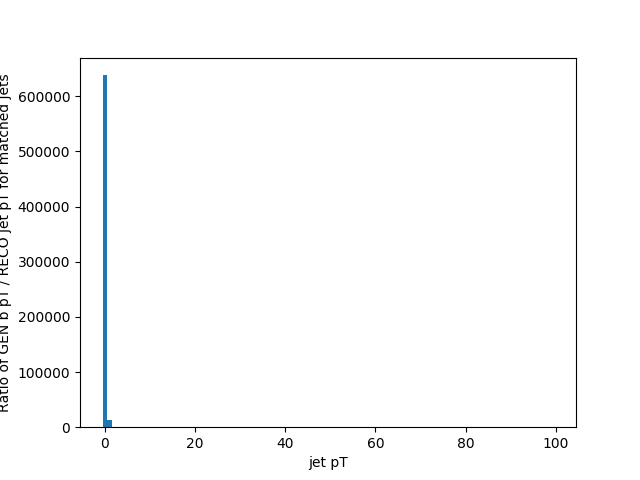
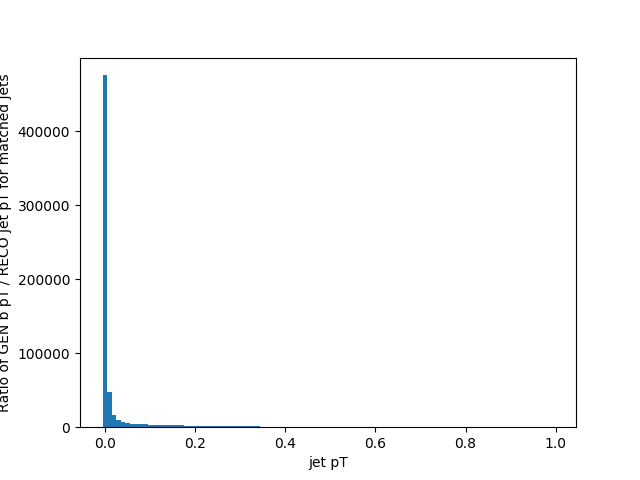
Corrected some plots' save locations

diff --git a/n00dle.py b/n00dle.py
@@ -78,15 +78,15 @@ def ana(files):
         "bphi":     Hist(66,(-3.3,3.3),'GEN b Phi','Events','upplots/bphi'),
         "bdR":      Hist(100,(-0.005,1.995),'GEN b to matched jet dR','Events','upplots/bdR'),
         "RjetpT":   Hist(100,(-0.5,99.5),'All RECO jet pT','Events','upplots/RjetpT'),
-        "GoverRjetpT":  Hist(100,(-0.5,99.5),'jet pT','Ratio of GEN b pT / RECO jet pT for matched jets','upplots/GRjetpT'),
+        "GoverRjetpT":  Hist(100,(-0.005,.995),'jet pT','Ratio of GEN b pT / RECO jet pT for matched jets','upplots/GRjetpT'),
         "bdRvlogbpT1":   Hist2d([80,100],[[-0.05,7.95],[-0.00005,.00995]],'log2(GEN b pT)','dR from 1st pT GEN b to matched RECO jet','upplots/bdRvlogbpT1'),
         "bdRvlogbpT2":   Hist2d([80,100],[[-0.05,7.95],[-0.00005,.00995]],'log2(GEN b pT)','dR from 2nd pT GEN b to matched RECO jet','upplots/bdRvlogbpT2'),
         "bdRvlogbpT3":   Hist2d([80,100],[[-0.05,7.95],[-0.00005,.00995]],'log2(GEN b pT)','dR from 3rd pT GEN b to matched RECO jet','upplots/bdRvlogbpT3'),
         "bdRvlogbpT4":   Hist2d([80,100],[[-0.05,7.95],[-0.00005,.00995]],'log2(GEN b pT)','dR from 4th pT GEN b to matched RECO jet','upplots/bdRvlogbpT4'),
-        "jetoverbpTvlogbpT1":    Hist2d([80,50],[[-0.05,7.95],[-0.05,4.95]],'log2(GEN b pT)','RECO jet pT / 1st GEN b pT for matched jets','jetoverbpTvlogbpT1'),
-        "jetoverbpTvlogbpT2":    Hist2d([80,50],[[-0.05,7.95],[-0.05,4.95]],'log2(GEN b pT)','RECO jet pT / 2nd GEN b pT for matched jets','jetoverbpTvlogbpT2'),
-        "jetoverbpTvlogbpT3":    Hist2d([80,50],[[-0.05,7.95],[-0.05,4.95]],'log2(GEN b pT)','RECO jet pT / 3rd GEN b pT for matched jets','jetoverbpTvlogbpT3'),
-        "jetoverbpTvlogbpT4":    Hist2d([80,50],[[-0.05,7.95],[-0.05,4.95]],'log2(GEN b pT)','RECO jet pT / 4th GEN b pT for matched jets','jetoverbpTvlogbpT4'),
+        "jetoverbpTvlogbpT1":    Hist2d([80,50],[[-0.05,7.95],[-0.05,4.95]],'log2(GEN b pT)','RECO jet pT / 1st GEN b pT for matched jets','upplots/jetoverbpTvlogbpT1'),
+        "jetoverbpTvlogbpT2":    Hist2d([80,50],[[-0.05,7.95],[-0.05,4.95]],'log2(GEN b pT)','RECO jet pT / 2nd GEN b pT for matched jets','upplots/jetoverbpTvlogbpT2'),
+        "jetoverbpTvlogbpT3":    Hist2d([80,50],[[-0.05,7.95],[-0.05,4.95]],'log2(GEN b pT)','RECO jet pT / 3rd GEN b pT for matched jets','upplots/jetoverbpTvlogbpT3'),
+        "jetoverbpTvlogbpT4":    Hist2d([80,50],[[-0.05,7.95],[-0.05,4.95]],'log2(GEN b pT)','RECO jet pT / 4th GEN b pT for matched jets','upplots/jetoverbpTvlogbpT4'),
     }
     ## Create an internal figure for pyplot to write to
     plt.figure(1)
